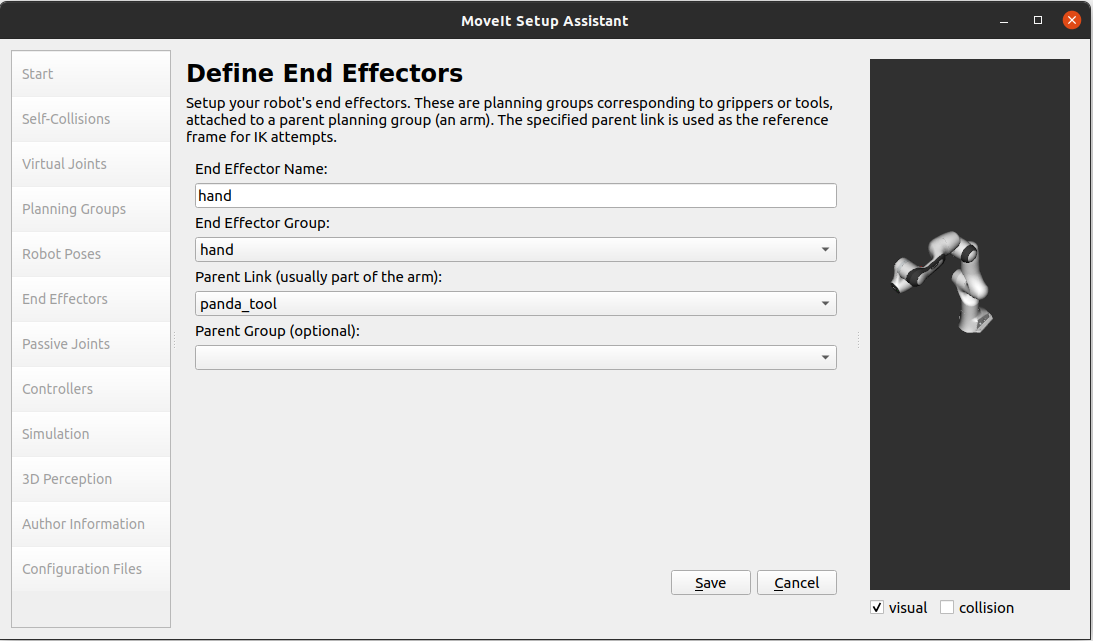
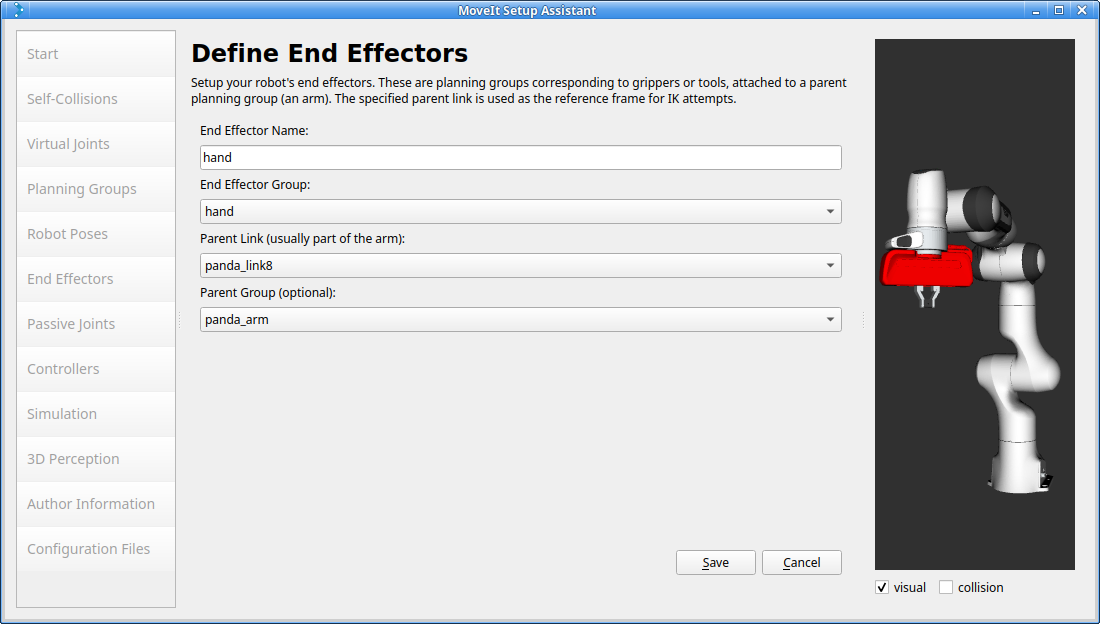
Slighly reword the planning group section
Also add different screenshots that more clearly display the hand
of the robot, which is kind of hidden in the startup pose.

Changed region(s): [[0.0, 0.0, 1.0, 1.0], [0.6221, 0.883, 0.7777, 0.9439]]

diff --git a/doc/setup_assistant/setup_assistant_tutorial.rst b/doc/setup_assistant/setup_assistant_tutorial.rst
@@ -49,14 +49,19 @@ Step 1: Start
 
 .. image:: setup_assistant_start.png
 
-* Click on the browse button and navigate to the *panda_arm.urdf.xacro* file
-  installed when you installed the Franka package above. (This file gets installed in
-  ``/opt/ros/noetic/share/franka_description/robots/panda_arm.urdf.xacro`` on Ubuntu
-  with ROS Noetic) Choose that file.
+* Click on the browse button and navigate to the ``.urdf`` file of your robot.
+  MoveIt Setup Assistant supports both, plain ``.urdf`` files as well as ``.urdf.xacro`` files
+  that require the `xacro <http://wiki.ros.org/xacro>`_ pre-processor to generate the final URDF.
 
-* Now add **hand:=true** as the *optional xacro arguments and then click *Load Files*.
-  The Setup Assistant will load the files (this might take a few seconds) and present
-  you with this screen:
+  For the Panda robot, the file is called ``panda_arm.urdf.xacro`` provided by the ``franka_description``
+  package, located in ``/opt/ros/noetic/share/franka_description/robots/panda_arm.urdf.xacro`` when installed
+  from the ROS Noetic package repository as done above.
+
+* Optionally, enter xacro commandline parameters to steer the URDF generation process.
+  For the Panda, you should add **hand:=true** to enable creation of both arm *and* hand.
+
+* Finally, click *Load Files*. The Setup Assistant will load the files (this might take a few seconds) and present
+  you with this screen, showing the robot in a default pose with all joints at the center of their range:
 
 .. image:: setup_assistant_panda_100.png
    :width: 700px
@@ -117,6 +122,10 @@ Step 4: Add Planning Groups
 
 Planning groups are used for semantically describing different parts
 of your robot, such as defining what an arm is, or an end effector.
+A planning group essentially defines which joints will actively participate in
+motion generation, what are reference frames for inverse kinematics, etc.
+
+In the following, we will define two planning groups for the arm and one group for the hand.
 
 * Click on the *Planning Groups* pane selector.
 
@@ -125,9 +134,8 @@ of your robot, such as defining what an arm is, or an end effector.
 .. image:: setup_assistant_panda_planning_groups.png
    :width: 700px
 
-Add the arm
 
-* We will first add Panda arm as a planning group
+* We will first add ``panda_arm`` as a planning group
 
   * Enter *Group Name* as **panda_arm**
 
@@ -141,14 +149,15 @@ Add the arm
 .. image:: setup_assistant_panda_arm.png
    :width: 700px
 
-* Now, click on the *Add Kin. Chain* button. Click the *Expand All* button. You will see a
-  list of links on the left-hand side. The links are arranged in the order that they are stored in
-  an internal tree structure.
+* Groups can be define in various ways. Here, we prefer defining the group via a kinematic chain,
+  i.e. defining its first and last link along the chain.
+  Thus, click on the *Add Kin. Chain* button and, on the next pane, click the *Expand All* button to see the full
+  kinematic tree of your robot.
 
   * Click on the **panda_link0** link and press the *Choose Selected* button next to the
-    Base link text field.
-  * Click on the **panda_tool** link and press the *Choose Selected* button next to the
-    Tip link text field.
+    **Base link** text field.
+  * Click on the **panda_link8** link and press the *Choose Selected* button next to the
+    **Tip link** text field.
 
 .. image:: setup_assistant_panda_arm_links.png
    :width: 700px
@@ -158,11 +167,15 @@ Add the arm
 .. image:: setup_assistant_panda_arm_links_saved.png
    :width: 700px
 
-Add the gripper
+Repeat this procedure for another arm group, called ``manipulator``, ranging from base link ``panda_link0``
+to tip link ``panda_hand_tcp``. While ``panda_link8`` defines the tool mount frame of the Panda, the virtual frame
+``panda_hand_tcp`` defines the tool center point between the two gripper flanges. Both frames have a different orientation
+as well, ``panda_hand_tcp`` being aligned with the hand.
 
-* We will also add a group for the end
-  effector. NOTE that you will do this using a different procedure
-  than adding the arm.
+Add the ``hand`` group
+
+* We will also add a group for the end effector.
+  NOTE that you will do this using a slightly different procedure than adding the arm.
 
   * Click on the *Add Group* button.
 
@@ -175,7 +188,7 @@ Add the gripper
 
   * Click on the *Add Links* button.
 
-  * Choose **panda_hand**, **panda_leftfinger**, **panda_rightfinger** and **panda_hand_coarse* and add them
+  * Choose **panda_hand**, **panda_leftfinger**, and **panda_rightfinger** and add them
     to the list of *Selected Links* on the right hand side.
 
   * Click *Save*
@@ -206,12 +219,12 @@ certain position of the robot as a **Home** position.
 .. image:: setup_assistant_panda_saved_poses.png
    :width: 700px
 
-Step 6: Label End Effectors
+Step 6: Add End Effectors
 ---------------------------
 
-We have already added the gripper of the Panda. Now, we
-will designate this group as a special group:
-**end effectors**. Designating this group as end effectors allows
+We have already added the gripper of the Panda as a planning group. Now, we
+will designate this group as a special group, an **end effector**.
+Designating the group as an end effector allows
 some special operations to happen on them internally.
 
 * Click on the *End Effectors* pane.
@@ -222,9 +235,16 @@ some special operations to happen on them internally.
 
 * Select **hand** as the *End Effector Group*.
 
-* Select **panda_tool** as the *Parent Link* for this end-effector.
+* Select **panda_link8** as the *Parent Link* and **panda_arm** as the *Parent Group* for this end-effector.
 
-* Leave *Parent Group* blank.
+Add another end effector group, called **hand_tcp**, using **manipulator** as its parent group
+and **panda_hand_tcp** as its parent link. Thus, the two arm planning groups essentially differ in
+their associated end effector as well as the corresponding end-effector link = parent link.
+Thus they will provide different interactive markers to steer the robot in Cartesian space.
+
+Note, that it is possible to associate several end effector groups to a single parent group.
+If you select such a planning group for planning, *all* associated interactive markers will be provided
+to steer the arm - potentially using different end-effector reference frames.
 
 .. image:: setup_assistant_panda_end_effector_add.png
    :width: 700px
@@ -240,7 +260,7 @@ directly controlled. The Panda does not have any passive
 joints so we will skip this step.
 
 
-Step 8: ROS Control
+Step 8: Controllers
 ---------------------
 
 ROS Control is a set of packages that include controller interfaces, controller managers, transmissions and hardware_interfaces, for more details please look at `ros_control` documentation_
